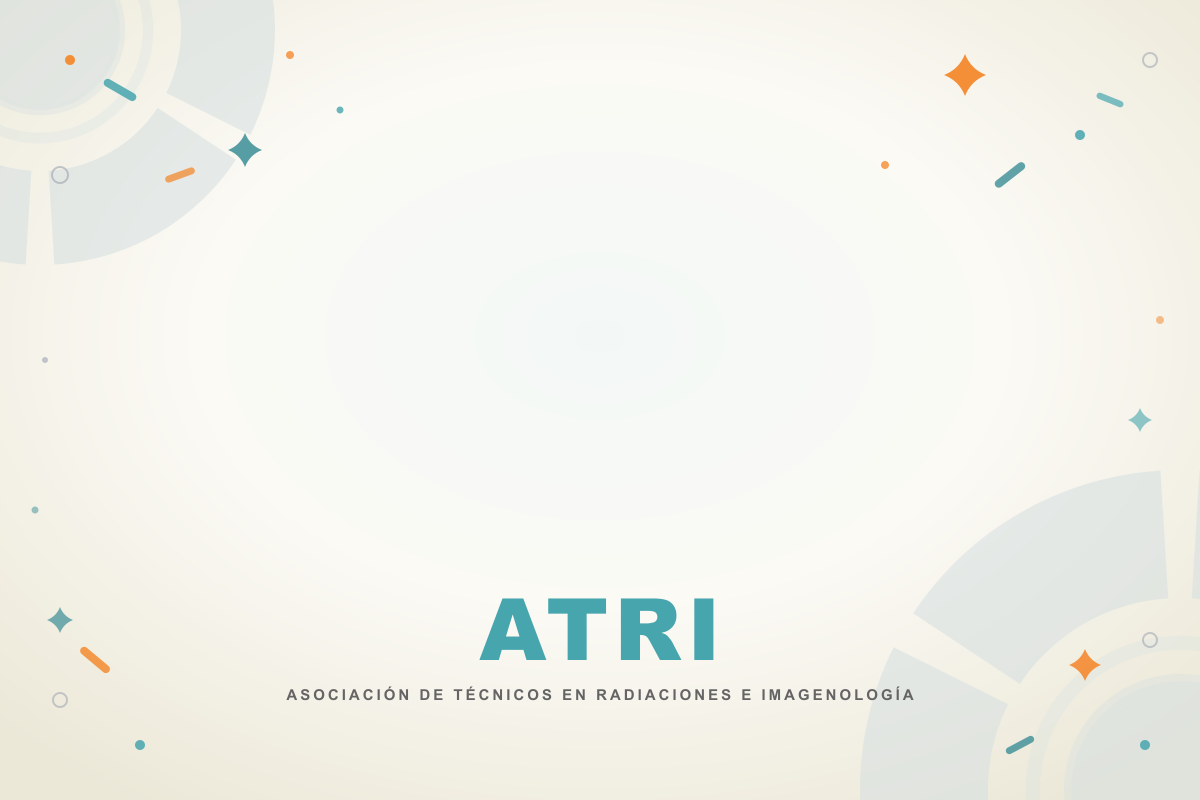
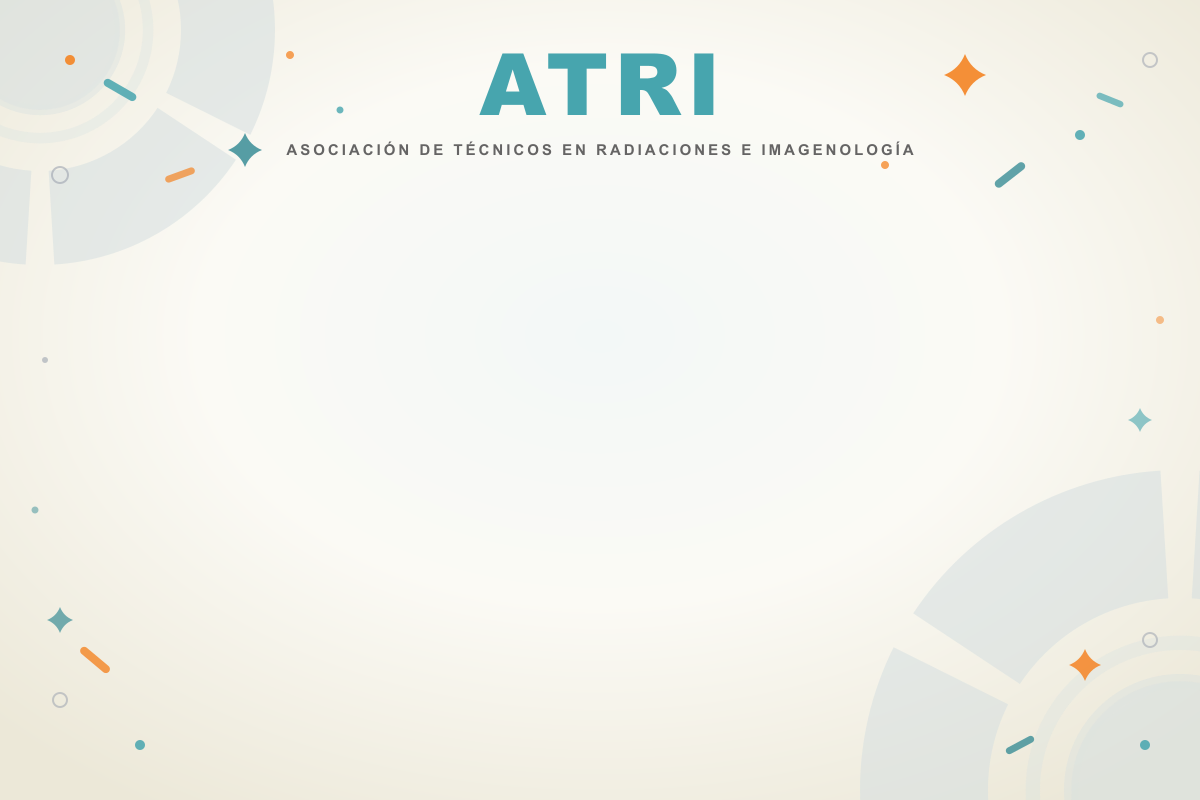
Actualizacion Envio Cumpleaños

diff --git a/lib/birthday-email-template.ts b/lib/birthday-email-template.ts
@@ -138,9 +138,9 @@ export function renderBirthdayEmail({
   // Bloque de texto (panel semitransparente + cuerpo).
   const panelBg = hexToRgba(panelColor, plantilla.panelOpacidad)
   const textoBloque = `
-    <table role="presentation" cellpadding="0" cellspacing="0" align="center" style="margin:0 auto;">
+    <table role="presentation" cellpadding="0" cellspacing="0" align="center" style="margin:0 auto;max-width:440px;">
       <tr>
-        <td style="background-color:${panelBg};border-radius:12px;padding:30px 34px;text-align:center;">
+        <td class="panel-pad" style="background-color:${panelBg};border-radius:12px;padding:30px 34px;text-align:center;">
           <div style="font-family:'Helvetica Neue',Arial,sans-serif;color:${textoColor};font-size:17px;line-height:1.65;">
             ${cuerpoHtml}
           </div>
@@ -154,15 +154,15 @@ export function renderBirthdayEmail({
   if (img) {
     const imgSafe = escapeHtml(img)
     hero = `
-      <td background="${imgSafe}" bgcolor="${panelColor}" valign="middle" height="${HERO_HEIGHT}"
-          style="background-image:url('${imgSafe}');background-size:cover;background-position:center;background-color:${panelColor};height:${HERO_HEIGHT}px;">
+      <td background="${imgSafe}" bgcolor="${panelColor}" valign="middle"
+          style="background-image:url('${imgSafe}');background-size:cover;background-position:center;background-color:${panelColor};min-height:${HERO_HEIGHT}px;">
         <!--[if gte mso 9]>
         <v:rect xmlns:v="urn:schemas-microsoft-com:vml" fill="true" stroke="false" style="width:${CARD_WIDTH}px;height:${HERO_HEIGHT}px;">
         <v:fill type="frame" src="${imgSafe}" color="${panelColor}" />
         <v:textbox inset="0,0,0,0">
         <![endif]-->
         <table role="presentation" width="100%" cellpadding="0" cellspacing="0">
-          <tr><td align="center" style="padding:44px 32px;">${textoBloque}</td></tr>
+          <tr><td align="center" class="hero-pad" style="padding:44px 32px;">${textoBloque}</td></tr>
         </table>
         <!--[if gte mso 9]>
         </v:textbox>
@@ -174,7 +174,7 @@ export function renderBirthdayEmail({
       <td bgcolor="${panelColor}" valign="middle"
           style="background-color:${panelColor};">
         <table role="presentation" width="100%" cellpadding="0" cellspacing="0">
-          <tr><td align="center" style="padding:56px 32px;">
+          <tr><td align="center" class="hero-pad" style="padding:56px 32px;">
             <div style="font-family:'Helvetica Neue',Arial,sans-serif;color:${textoColor};font-size:17px;line-height:1.65;text-align:center;">
               ${cuerpoHtml}
             </div>
@@ -189,6 +189,12 @@ export function renderBirthdayEmail({
   <meta charset="utf-8" />
   <meta name="viewport" content="width=device-width, initial-scale=1" />
   <title>${escapeHtml(subject)}</title>
+  <style>
+    @media only screen and (max-width: 480px) {
+      .hero-pad { padding: 24px 12px !important; }
+      .panel-pad { padding: 22px 18px !important; }
+    }
+  </style>
 </head>
 <body style="margin:0;padding:0;background-color:#f4f3f0;">
   <table role="presentation" width="100%" cellpadding="0" cellspacing="0" style="background-color:#f4f3f0;padding:28px 14px;">
@@ -196,13 +202,6 @@ export function renderBirthdayEmail({
       <td align="center">
         <table role="presentation" width="${CARD_WIDTH}" cellpadding="0" cellspacing="0" style="width:${CARD_WIDTH}px;max-width:100%;background-color:#ffffff;border-radius:14px;overflow:hidden;border:1px solid #e6e3dd;">
           <tr>${hero}</tr>
-          <tr>
-            <td style="background-color:#faf9f7;border-top:1px solid #e6e3dd;padding:16px 28px;">
-              <p style="margin:0;font-family:'Helvetica Neue',Arial,sans-serif;color:#9b958a;font-size:12px;line-height:1.5;">
-                Este es un mensaje automático de saludo. No es necesario responderlo.
-              </p>
-            </td>
-          </tr>
         </table>
       </td>
     </tr>

diff --git a/app/api/admin/birthday-config/route.ts b/app/api/admin/birthday-config/route.ts
@@ -27,13 +27,13 @@ export const runtime = 'nodejs'
 export const dynamic = 'force-dynamic'
 
 /**
- * Cron de Vercel: una corrida diaria a las 12:00 UTC = 09:00 Montevideo
+ * Cron de Vercel: una corrida diaria a las 11:00 UTC = 08:00 Montevideo
  * (ver vercel.json). En plan Hobby no se permiten crons sub-diarios, así
  * que la hora queda fija en el repo. Si hay que cambiarla, editar
  * vercel.json y HORA_ENVIO_MONTEVIDEO, y hacer redeploy.
  */
-const HEARTBEAT_CRON = '0 12 * * *'
-const HORA_ENVIO_MONTEVIDEO = 9
+const HEARTBEAT_CRON = '0 11 * * *'
+const HORA_ENVIO_MONTEVIDEO = 8
 
 interface LogRow {
   socio_id: string

diff --git a/app/api/cron/birthdays/route.ts b/app/api/cron/birthdays/route.ts
@@ -1,8 +1,8 @@
 /**
  * GET /api/cron/birthdays
  *
- * Disparado por Vercel Cron una vez por día (ver vercel.json: 12:00 UTC =
- * 09:00 Montevideo). Detecta los socios que cumplen años hoy y les envía un
+ * Disparado por Vercel Cron una vez por día (ver vercel.json: 11:00 UTC =
+ * 08:00 Montevideo). Detecta los socios que cumplen años hoy y les envía un
  * saludo desde la casilla Gmail de su empresa.
  *
  * Seguridad   · exige header  Authorization: Bearer <CRON_SECRET>.